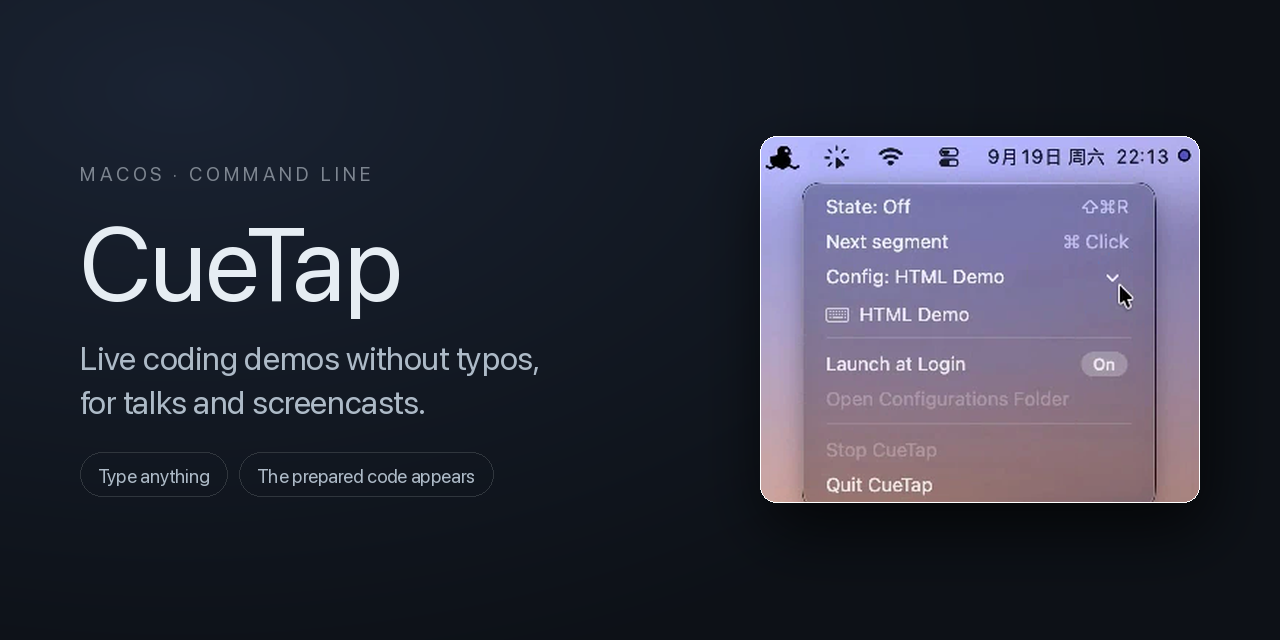
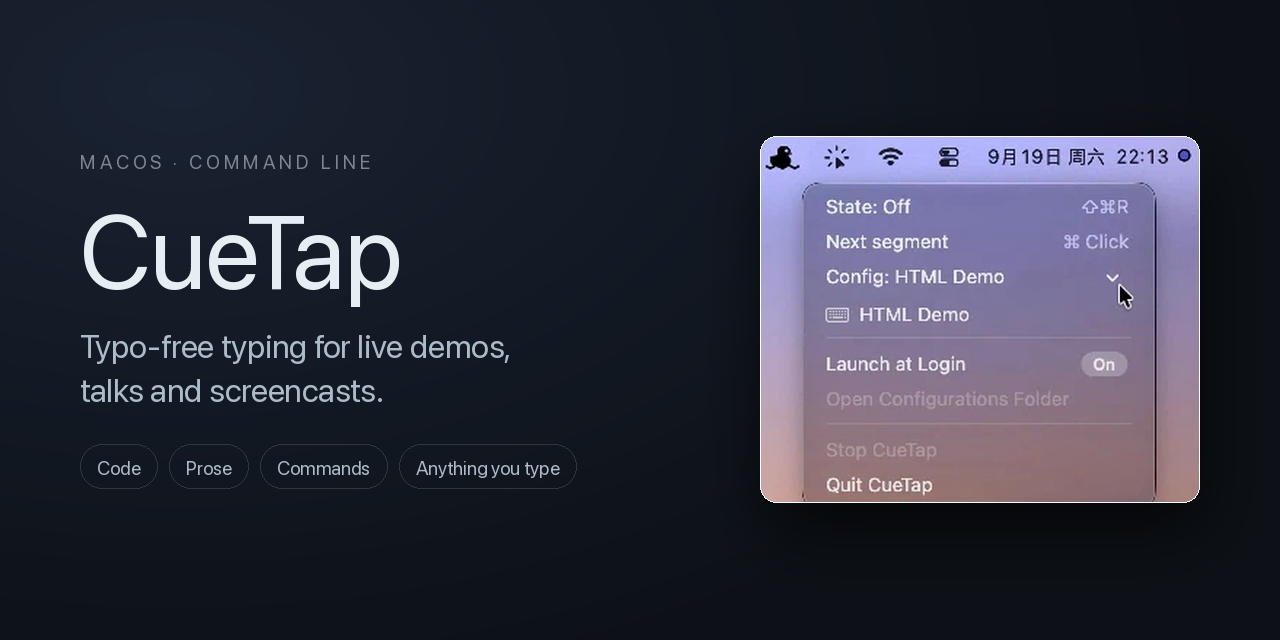
Describe CueTap by what it types, not by code
CueTap emits keystrokes and never looks at their content, so prose, commands
and form fields work exactly like code. Leading with "live coding" turned away
everyone who does not write code for a living.

The About line, the README opening and the preview image now say typing, with
code as one example among several.

diff --git a/README.md b/README.md
@@ -1,7 +1,7 @@
 <h1 align="center">CueTap</h1>
 
 <p align="center">
-  Type prepared code during a live demo, one keystroke at a time.
+  Typing you prepared in advance, replayed one keystroke at a time.
 </p>
 
 <p align="center">
@@ -26,7 +26,9 @@
   <img src="assets/menu.webp" width="302" alt="The CueTap menu bar item, showing demo state, the advance shortcut, and the configuration list expanding in place">
 </p>
 
-CueTap is a live coding assistant for talks, screencasts and teaching. You prepare the code beforehand; on stage you type at whatever rhythm your explanation takes, and CueTap emits the prepared characters instead of yours. The typing looks real because it is real, but typos cannot happen.
+CueTap replays typing you prepared in advance, for live demos, talks, screencasts and teaching. Code, prose, commands, form fields, anything you can type.
+
+You type at whatever rhythm your explanation takes and CueTap emits the prepared characters instead of yours. The typing looks real because it is real, but typos cannot happen.
 
 It is one macOS command line tool with a menu bar icon. No window, no Dock icon, no recording, no network access.
 
@@ -69,9 +71,9 @@ After an upgrade CueTap may start but ignore the hotkey. Ad-hoc signatures chang
 cuetap start
 ```
 
-The icon appears in the menu bar and the bundled example loads. Open `tests/test.html` in an editor, put the cursor where the code belongs, press Command-Shift-R, and type anything.
+The icon appears in the menu bar and the bundled example loads. Open `tests/test.html` in an editor, put the cursor where the text belongs, press Command-Shift-R, and type anything.
 
-One configuration can hold several segments, for code that belongs in different places. At the end of a segment CueTap keeps swallowing keystrokes while you navigate with the mouse, across files and applications. Command-click where the next segment starts and typing resumes there. After the last segment the keyboard stays locked for three seconds, absorbing keys pressed a beat too late, then the demo stops itself.
+One configuration can hold several segments, for text that belongs in different places. At the end of a segment CueTap keeps swallowing keystrokes while you navigate with the mouse, across files and applications. Command-click where the next segment starts and typing resumes there. After the last segment the keyboard stays locked for three seconds, absorbing keys pressed a beat too late, then the demo stops itself.
 
 `cuetap stop` ends a demo, `cuetap quit` shuts the process down.
 
@@ -110,7 +112,7 @@ Process control is `start`, `stop`, `quit`, `status`. Configurations are `config
 
 ## With an AI agent
 
-[`Skills/cuetap/`](Skills/cuetap) is an Agent Skill. Hand a coding agent the code you plan to demo and it writes, imports and selects the configuration for you. Starting the demo stays with you, at the keyboard, in front of the audience.
+[`Skills/cuetap/`](Skills/cuetap) is an Agent Skill. Hand a coding agent whatever you plan to type and it writes, imports and selects the configuration for you. Starting the demo stays with you, at the keyboard, in front of the audience.
 
 ## Privacy
 
